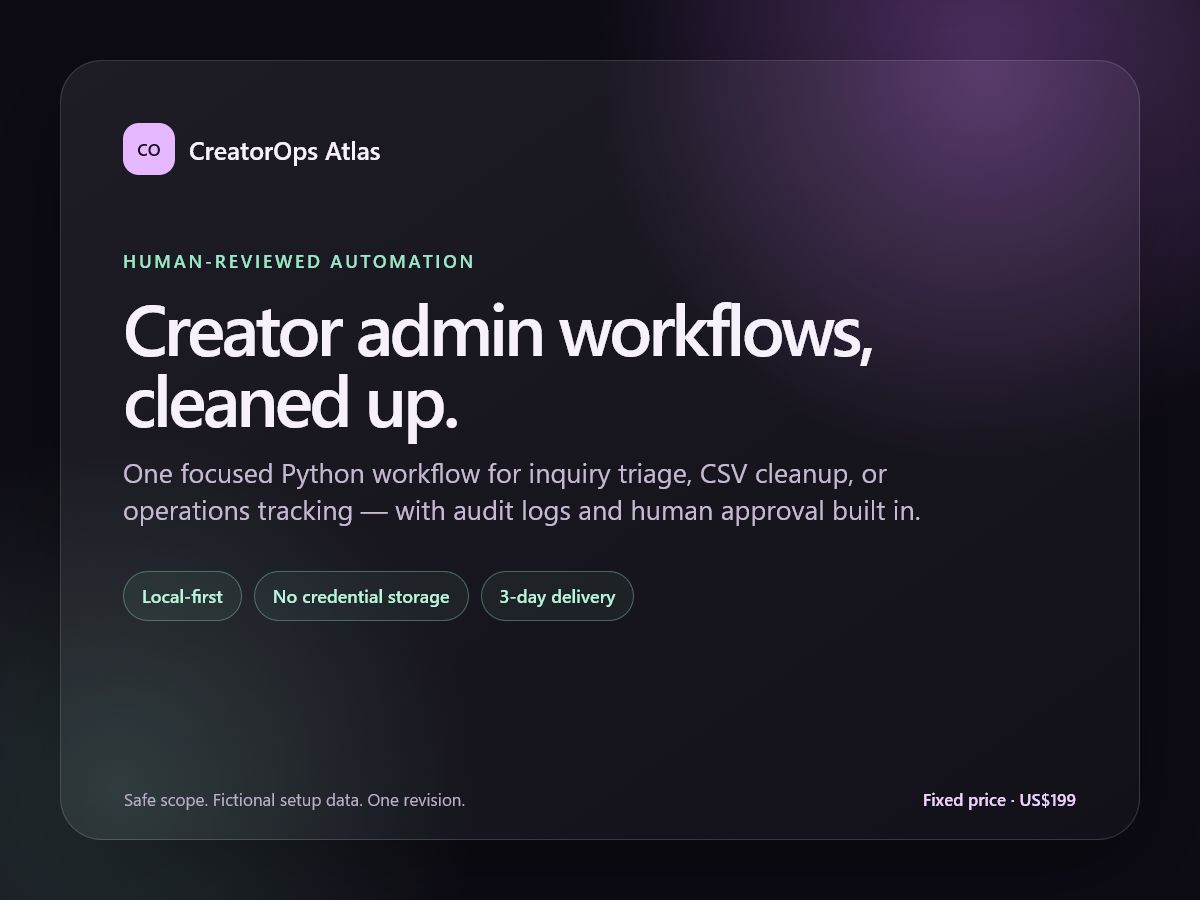
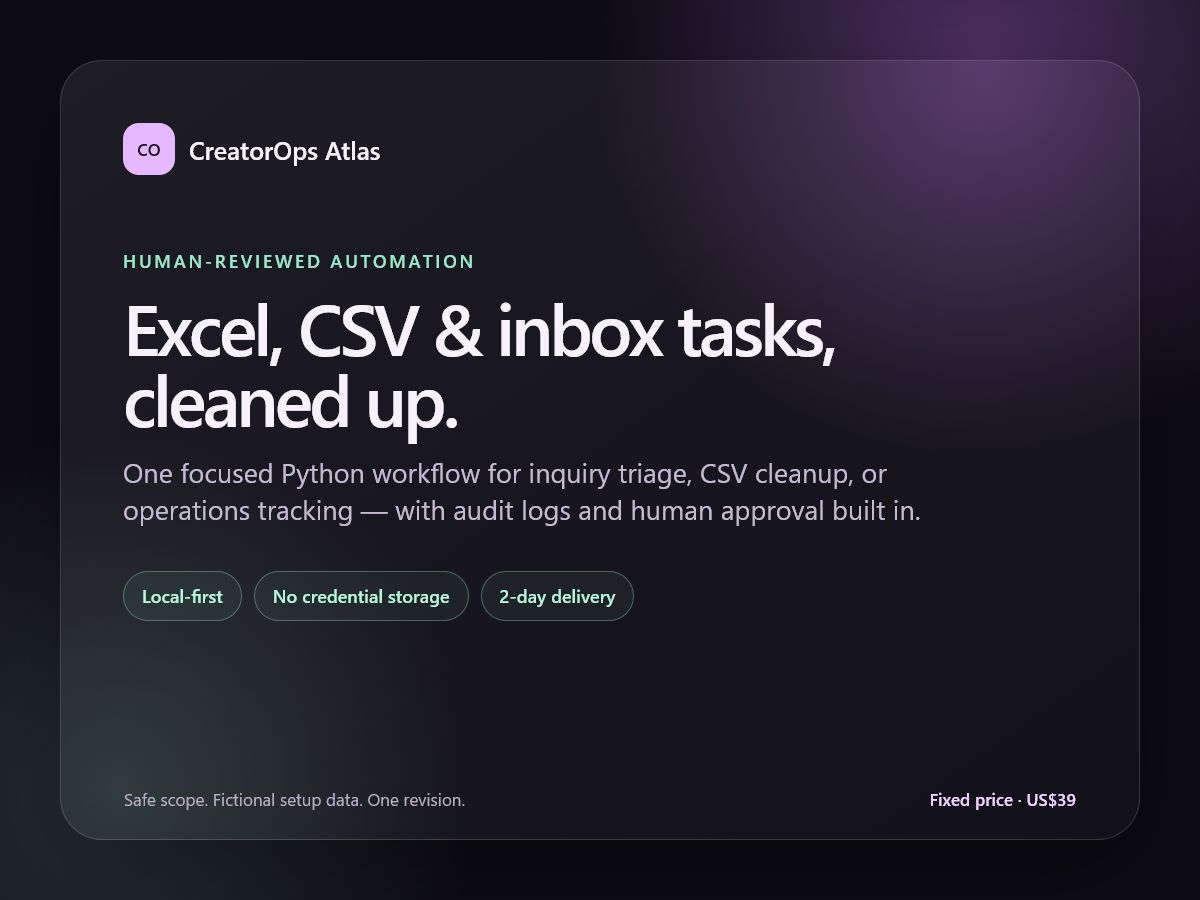
align landing page with entry service

Changed region(s): [[0.0925, 0.3111, 0.74, 0.4044], [0.7708, 0.8711, 0.8942, 0.9022]]

diff --git a/app.js b/app.js
@@ -72,8 +72,8 @@ const translations = {
     filterAll: "All", filterGlobal: "US / Global", filterJapan: "Japan", filterAffiliate: "Affiliate", reviewed: "Sources reviewed:",
     automationKicker: "HUMAN-REVIEWED AUTOMATION", automationTitle: "Automate the repetitive parts, not consent or judgment.",
     automationCopy: "Local-first Python workflows use sample data, keep an audit trail, and stop for human review when a decision is sensitive.",
-    serviceOneTitle: "Inbox & inquiry triage", serviceOneCopy: "Classify support requests, flag urgent cases, and draft neutral replies. A person approves every message.", serviceOnePrice: "US$199 / ¥30,000",
-    serviceTwoTitle: "Catalog & CSV cleanup", serviceTwoCopy: "Normalize titles, tags, dates, and product metadata without copying protected media or storing account credentials.", serviceTwoPrice: "US$199 / ¥30,000",
+    serviceOneTitle: "Inbox & inquiry triage", serviceOneCopy: "Classify support requests, flag urgent cases, and draft neutral replies. A person approves every message.", serviceOnePrice: "US$39 fixed starter",
+    serviceTwoTitle: "Catalog & CSV cleanup", serviceTwoCopy: "Normalize titles, tags, dates, and product metadata without copying protected media or storing account credentials.", serviceTwoPrice: "US$39 fixed starter",
     serviceThreeTitle: "Creator operations dashboard", serviceThreeCopy: "Track deliverables, renewals, permissions, and review queues with synthetic setup data and a documented handoff.", serviceThreePrice: "US$499 / ¥70,000",
     shippingKicker: "DISCREET SHIPPING", shippingTitle: "Discreet to the customer does not mean anonymous to the carrier.",
     shippingCopy: "Use truthful sender information where required, neutral packaging, minimal internal access to addresses, and carrier-approved goods. Never mislabel contents or evade customs rules.",
@@ -106,8 +106,8 @@ const translations = {
     filterAll: "すべて", filterGlobal: "米国・グローバル", filterJapan: "日本", filterAffiliate: "アフィリエイト", reviewed: "情報確認日:",
     automationKicker: "人間確認付き自動化", automationTitle: "反復作業を自動化し、同意や判断は自動化しない。",
     automationCopy: "ローカル中心のPython処理をサンプルデータで構築し、監査ログを残し、慎重な判断は人間確認で止めます。",
-    serviceOneTitle: "問い合わせ整理", serviceOneCopy: "問い合わせ分類、緊急案件の検出、中立的な返信下書きを作成。送信は人間が承認します。", serviceOnePrice: "US$199 / 30,000円",
-    serviceTwoTitle: "カタログ・CSV整理", serviceTwoCopy: "保護対象メディアを複製せず、認証情報も保存せずに、商品名・タグ・日付・メタデータを整形。", serviceTwoPrice: "US$199 / 30,000円",
+    serviceOneTitle: "問い合わせ整理", serviceOneCopy: "問い合わせ分類、緊急案件の検出、中立的な返信下書きを作成。送信は人間が承認します。", serviceOnePrice: "US$39 固定スターター",
+    serviceTwoTitle: "カタログ・CSV整理", serviceTwoCopy: "保護対象メディアを複製せず、認証情報も保存せずに、商品名・タグ・日付・メタデータを整形。", serviceTwoPrice: "US$39 固定スターター",
     serviceThreeTitle: "運営ダッシュボード", serviceThreeCopy: "納品、更新、許諾、確認待ちを架空データで構築し、運用手順付きで納品。", serviceThreePrice: "US$499 / 70,000円",
     shippingKicker: "匿名・配慮配送", shippingTitle: "購入者への配慮と、配送業者への匿名は別物です。",
     shippingCopy: "必要な差出人情報は正しく記載し、外装を中立化し、住所への社内アクセスを最小化し、配送可能な商品のみ扱います。虚偽品名や税関回避は禁止です。",

diff --git a/index.html b/index.html
@@ -98,13 +98,13 @@
             <span class="service-number">01</span>
             <h3 data-i18n="serviceOneTitle">Inbox & inquiry triage</h3>
             <p data-i18n="serviceOneCopy">Classify support requests, flag urgent cases, and draft neutral replies. A person approves every message.</p>
-            <span class="pill" data-i18n="serviceOnePrice">US$199 / ¥30,000</span>
+            <span class="pill" data-i18n="serviceOnePrice">US$39 fixed starter</span>
           </article>
           <article class="service-card">
             <span class="service-number">02</span>
             <h3 data-i18n="serviceTwoTitle">Catalog & CSV cleanup</h3>
             <p data-i18n="serviceTwoCopy">Normalize titles, tags, dates, and product metadata without copying protected media or storing account credentials.</p>
-            <span class="pill" data-i18n="serviceTwoPrice">US$199 / ¥30,000</span>
+            <span class="pill" data-i18n="serviceTwoPrice">US$39 fixed starter</span>
           </article>
           <article class="service-card">
             <span class="service-number">03</span>

diff --git a/assets/freelancer-service-cover.html b/assets/freelancer-service-cover.html
@@ -42,14 +42,14 @@
   <main class="frame">
     <div class="brand"><span class="mark">CO</span> CreatorOps Atlas</div>
     <div class="eyebrow">Human-reviewed automation</div>
-    <h1>Creator admin workflows, cleaned up.</h1>
+    <h1>Excel, CSV &amp; inbox tasks, cleaned up.</h1>
     <p class="lead">One focused Python workflow for inquiry triage, CSV cleanup, or operations tracking — with audit logs and human approval built in.</p>
     <div class="chips">
       <span class="chip">Local-first</span>
       <span class="chip">No credential storage</span>
-      <span class="chip">3-day delivery</span>
+      <span class="chip">2-day delivery</span>
     </div>
   </main>
-  <div class="footer"><span>Safe scope. Fictional setup data. One revision.</span><span class="price">Fixed price · US$199</span></div>
+  <div class="footer"><span>Safe scope. Fictional setup data. One revision.</span><span class="price">Fixed price · US$39</span></div>
 </body>
 </html>
